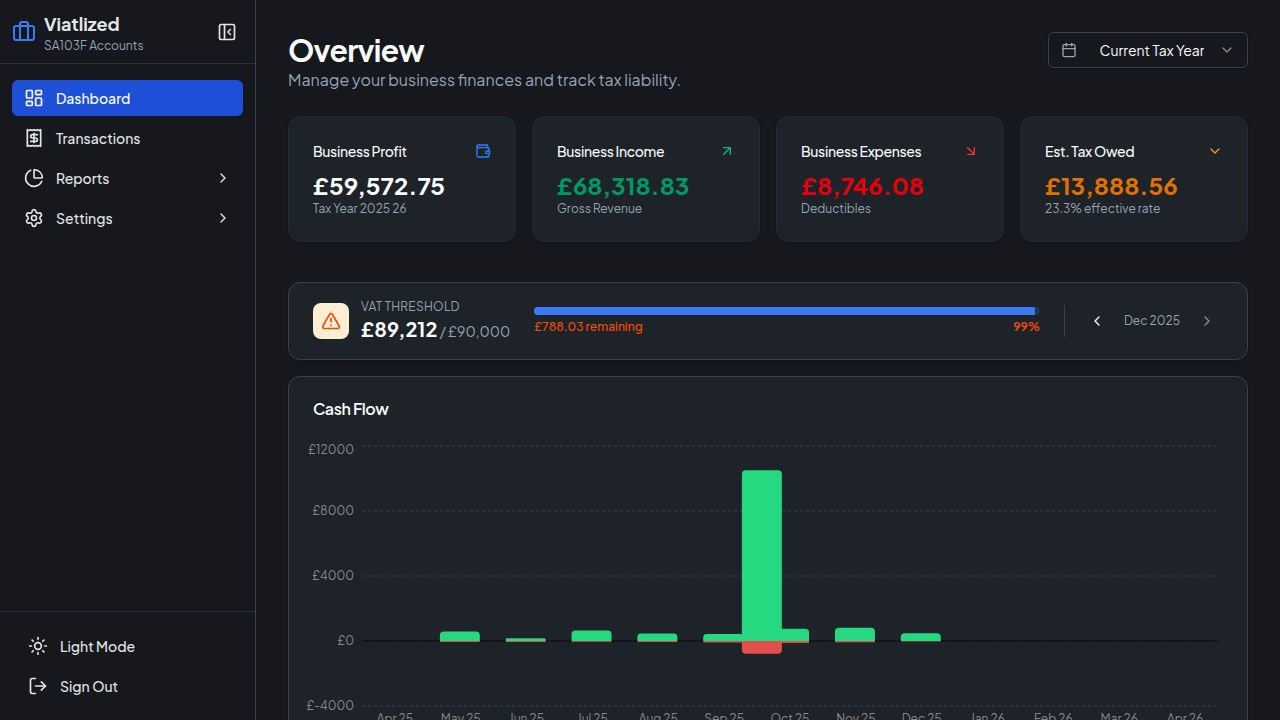
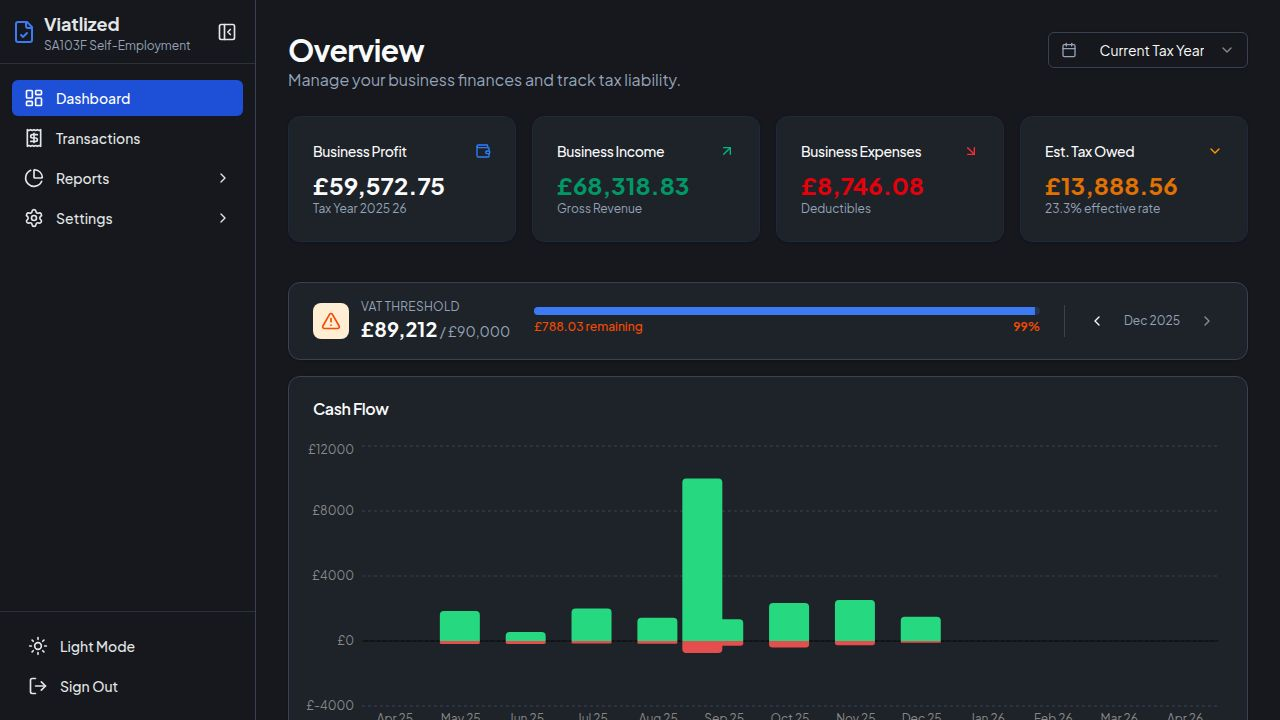
Update application name and documentation for self-employment accounts
Update HTML title, meta tags, sidebar subtitle, and replit.md to reflect the new application name "Viatlized - SA103F Self-Employment Accounts".

Replit-Commit-Author: Agent
Replit-Commit-Session-Id: c7eee8b1-1d73-4f42-873e-551413c8728e
Replit-Commit-Checkpoint-Type: full_checkpoint
Replit-Commit-Event-Id: b9f25e91-712a-4604-aaac-9f843cc35806
Replit-Commit-Screenshot-Url: https://storage.googleapis.com/screenshot-production-us-central1/74a6994d-dad0-4559-8ef7-1f8cbc5ddf37/c7eee8b1-1d73-4f42-873e-551413c8728e/r2Sh4oe
Replit-Helium-Checkpoint-Created: true

Changed region(s): [[0.3438, 0.6417, 0.75, 0.9167], [0.0625, 0.0611, 0.1562, 0.0917], [0.0, 0.0306, 0.0312, 0.0611]]

diff --git a/client/index.html b/client/index.html
@@ -4,14 +4,14 @@
     <meta charset="UTF-8" />
     <meta name="viewport" content="width=device-width, initial-scale=1.0, maximum-scale=1" />
 
-    <title>Viatlized - SA103F Accounts</title>
-    <meta property="og:title" content="Viatlized - SA103F Accounts" />
+    <title>Viatlized - SA103F Self-Employment Accounts</title>
+    <meta property="og:title" content="Viatlized - SA103F Self-Employment Accounts" />
     <meta property="og:description" content="UK sole trader accounting app with SA103F expense categorization, tax calculations, and HMRC compliance." />
     <meta property="og:type" content="website" />
     <meta property="og:image" content="https://replit.com/public/images/opengraph.png" />
     <meta name="twitter:card" content="summary_large_image" />
     <meta name="twitter:site" content="@replit" />
-    <meta name="twitter:title" content="Viatlized - SA103F Accounts" />
+    <meta name="twitter:title" content="Viatlized - SA103F Self-Employment Accounts" />
     <meta name="twitter:description" content="UK sole trader accounting app with SA103F expense categorization, tax calculations, and HMRC compliance." />
     <meta name="twitter:image" content="https://replit.com/public/images/opengraph.png" />
 

diff --git a/client/src/components/layout/Sidebar.tsx b/client/src/components/layout/Sidebar.tsx
@@ -99,7 +99,7 @@ export function Sidebar({ collapsed, onToggle }: SidebarProps) {
           {!collapsed && (
             <div className="flex flex-col leading-tight">
               <span className="text-lg font-bold">Viatlized</span>
-              <span className="text-xs text-muted-foreground">SA103F Accounts</span>
+              <span className="text-xs text-muted-foreground">SA103F Self-Employment</span>
             </div>
           )}
         </div>

diff --git a/replit.md b/replit.md
@@ -1,4 +1,4 @@
-# Viatlized - SA103F Accounts
+# Viatlized - SA103F Self-Employment Accounts
 
 ## Overview
 
